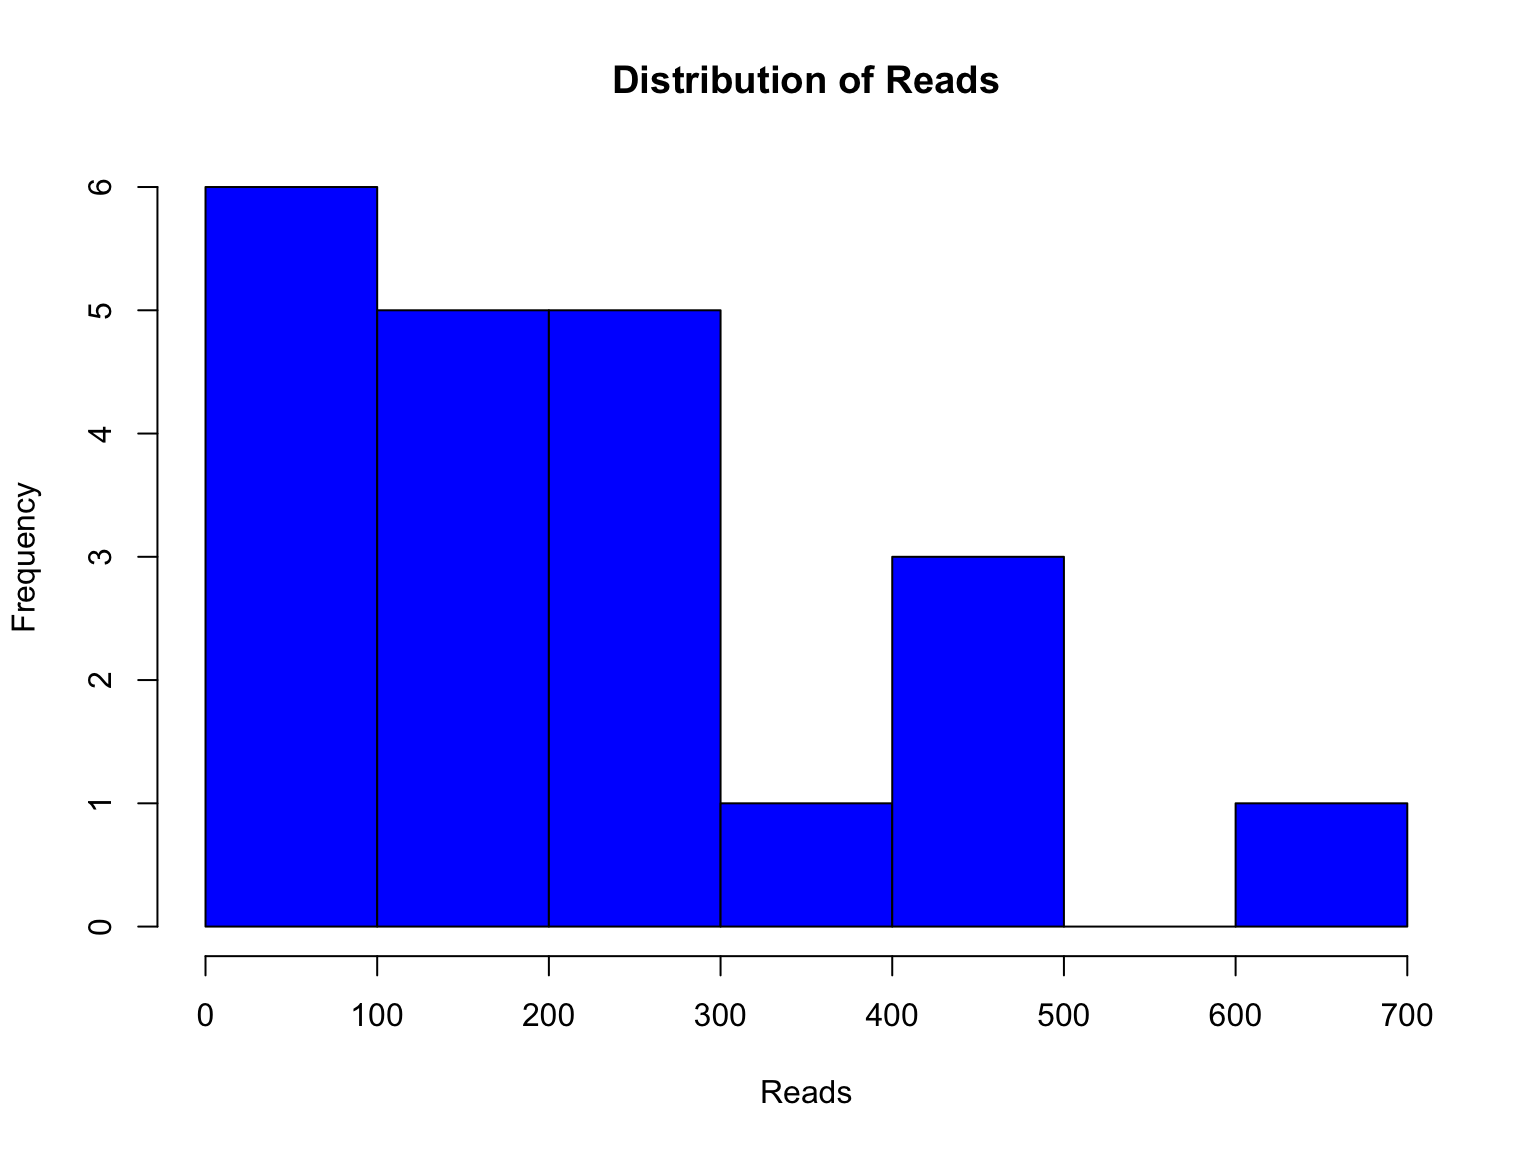
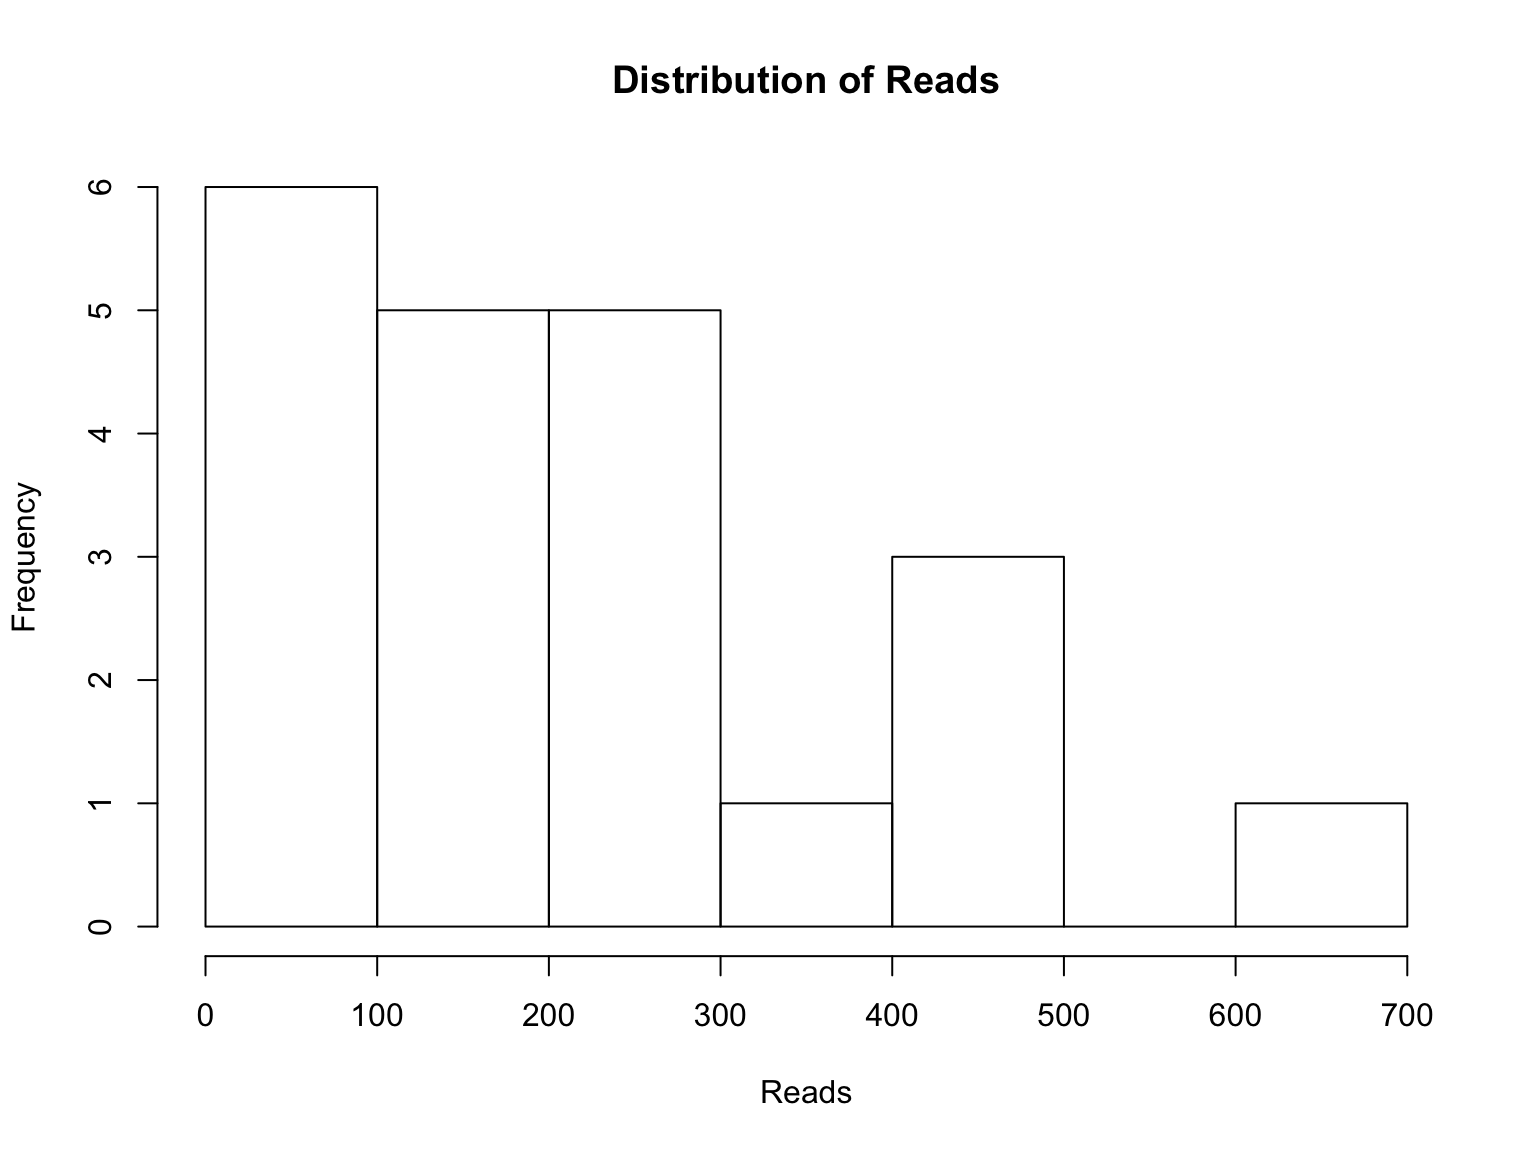
update

Changed region(s): [[0.125, 0.1562, 0.7188, 0.8125], [0.7812, 0.6875, 0.9375, 0.8125]]

diff --git a/docs/BCAnalysis.html b/docs/BCAnalysis.html
@@ -7142,8 +7142,9 @@ Splice_Site
 </tbody>
 </table>
 </div>
-<pre class="r"><code>hist(result[[2]],xlab=&#39;Reads&#39;,ylab=&#39;Frequency&#39;,main = &#39;Distribution of Reads&#39;,col=&#39;blue&#39;)</code></pre>
+<pre class="r"><code>hist(result[[2]],xlab=&#39;Reads&#39;,ylab=&#39;Frequency&#39;,main = &#39;Distribution of Reads&#39;)</code></pre>
 <p><img src="Figs/unnamed-chunk-3-1.png" width="768" /></p>
+<p>In addition, <strong>7.7%</strong> of positions are covered at atleast <strong>10X</strong>, and <strong>9.1%</strong> of positions are covered at atleast <strong>5X</strong>, per cell.</p>
 </div>
 <div id="characterizing-mutations-in-scs" class="section level2">
 <h2>Characterizing Mutations in SCs</h2>
